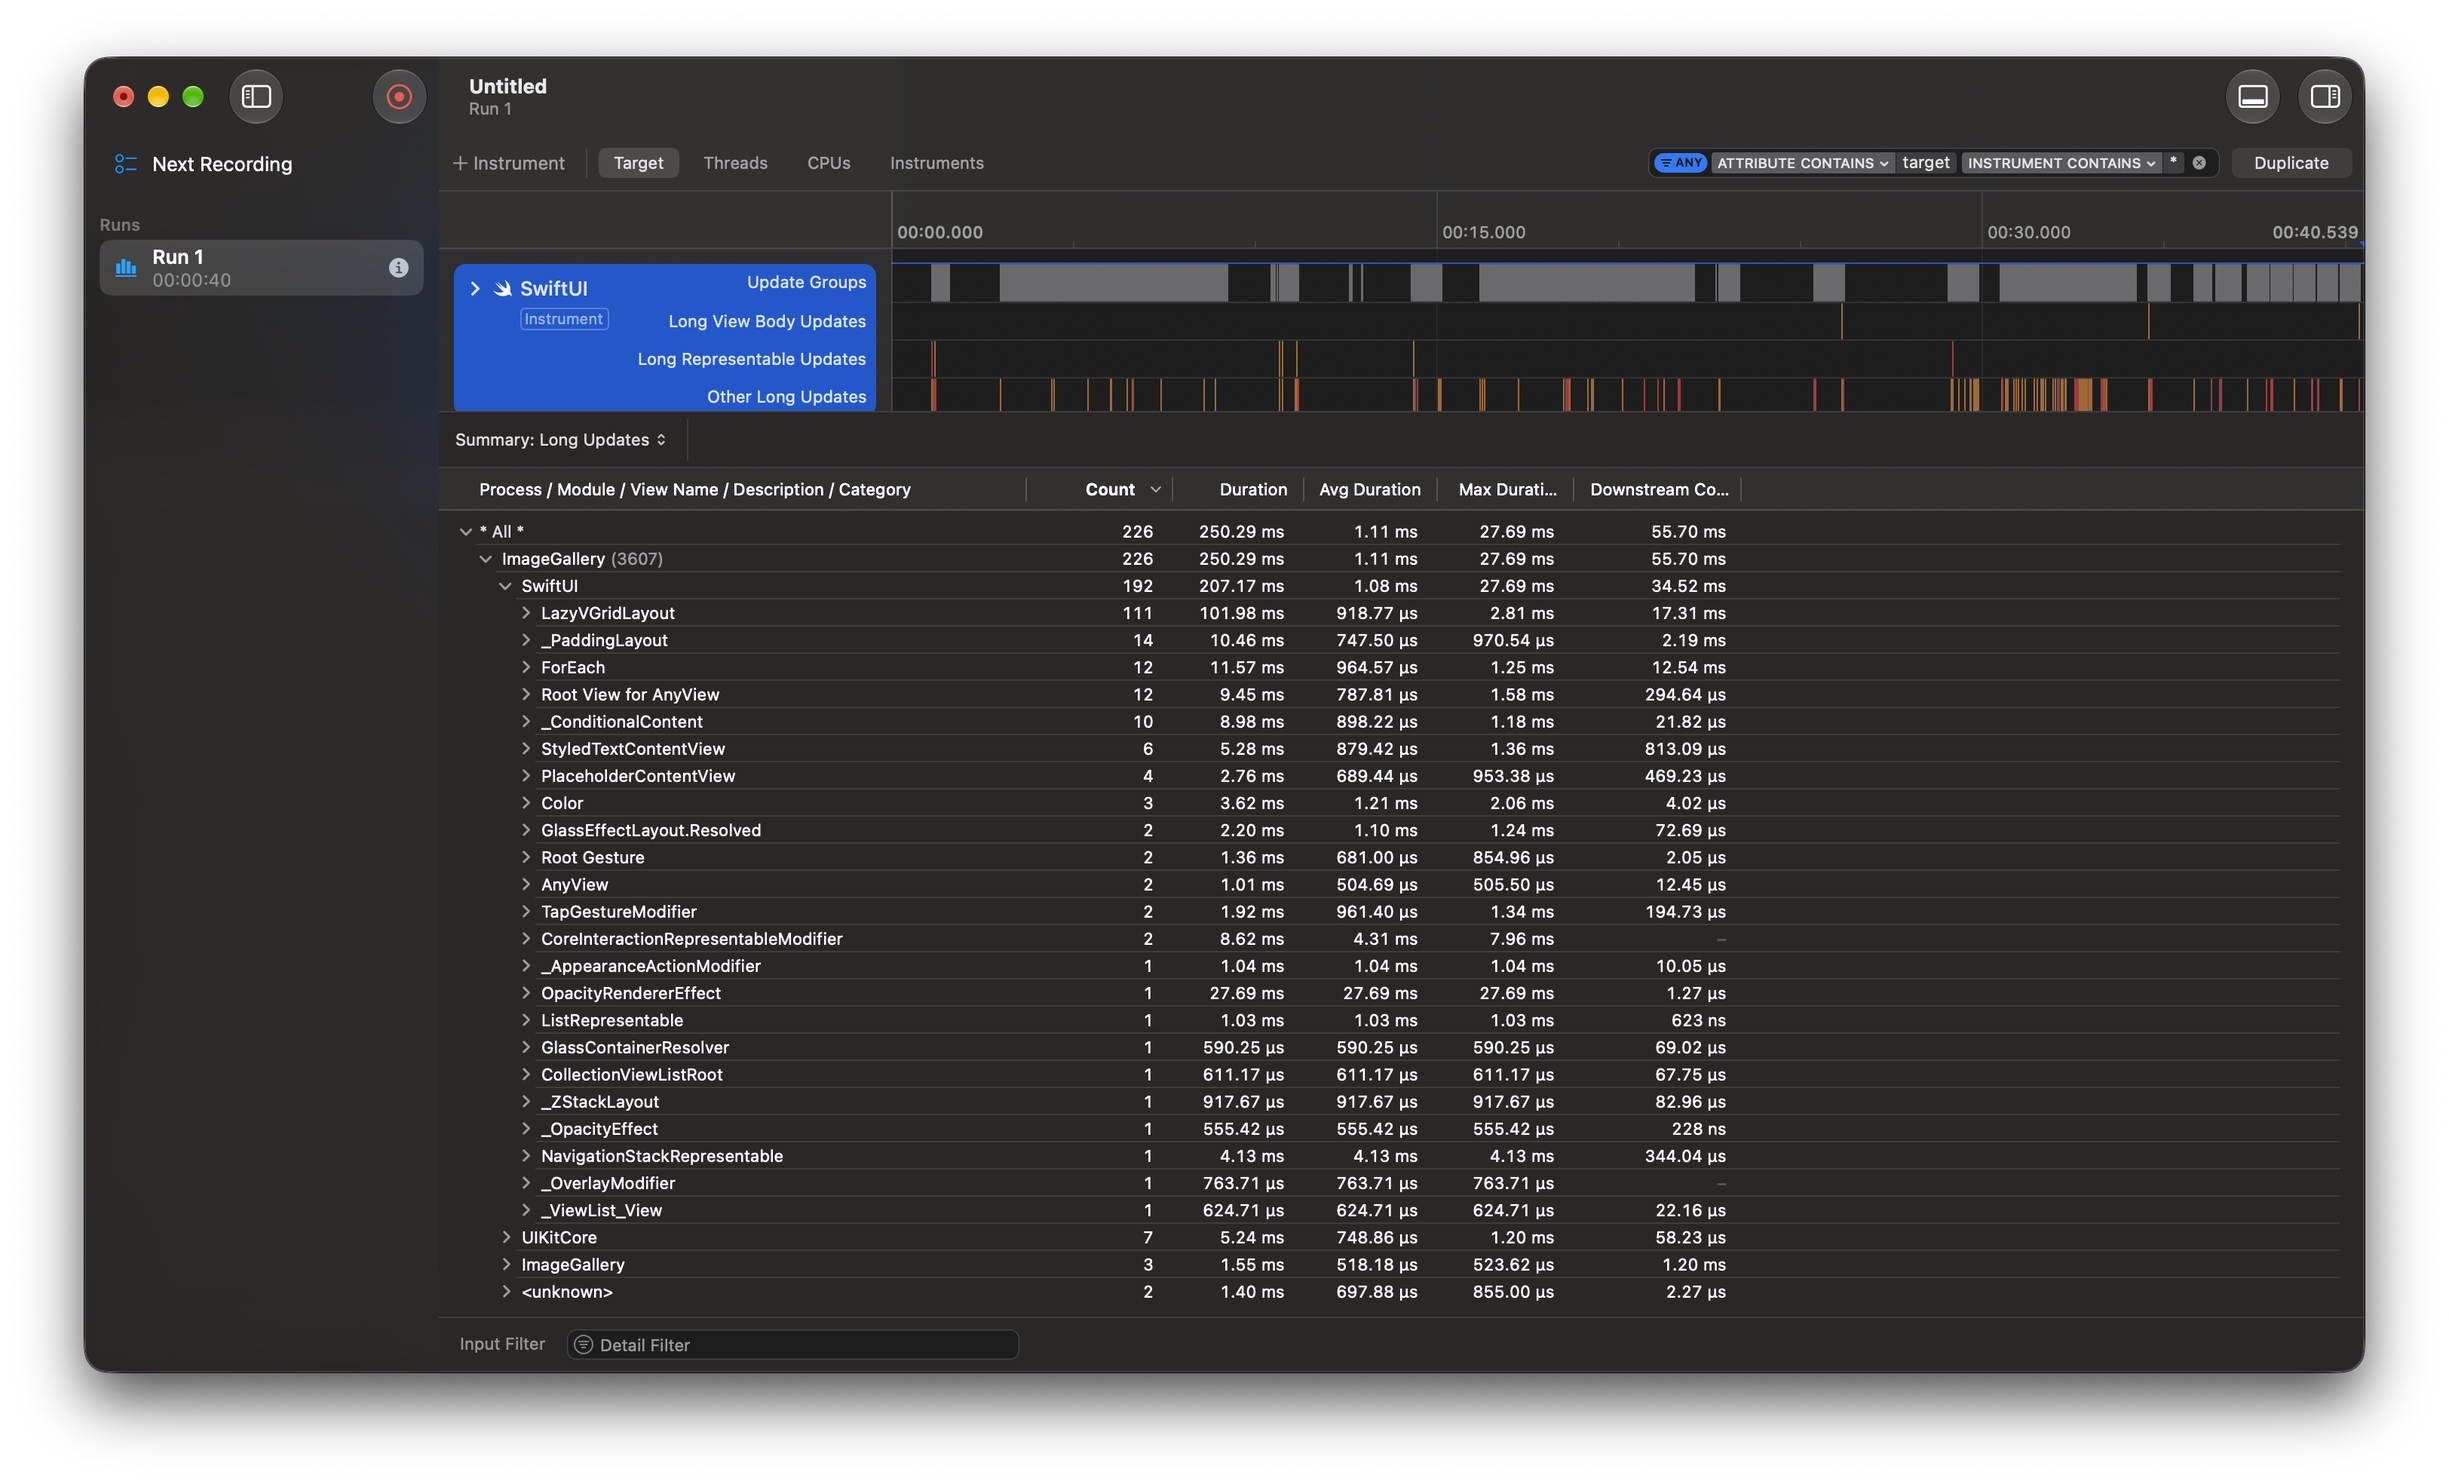
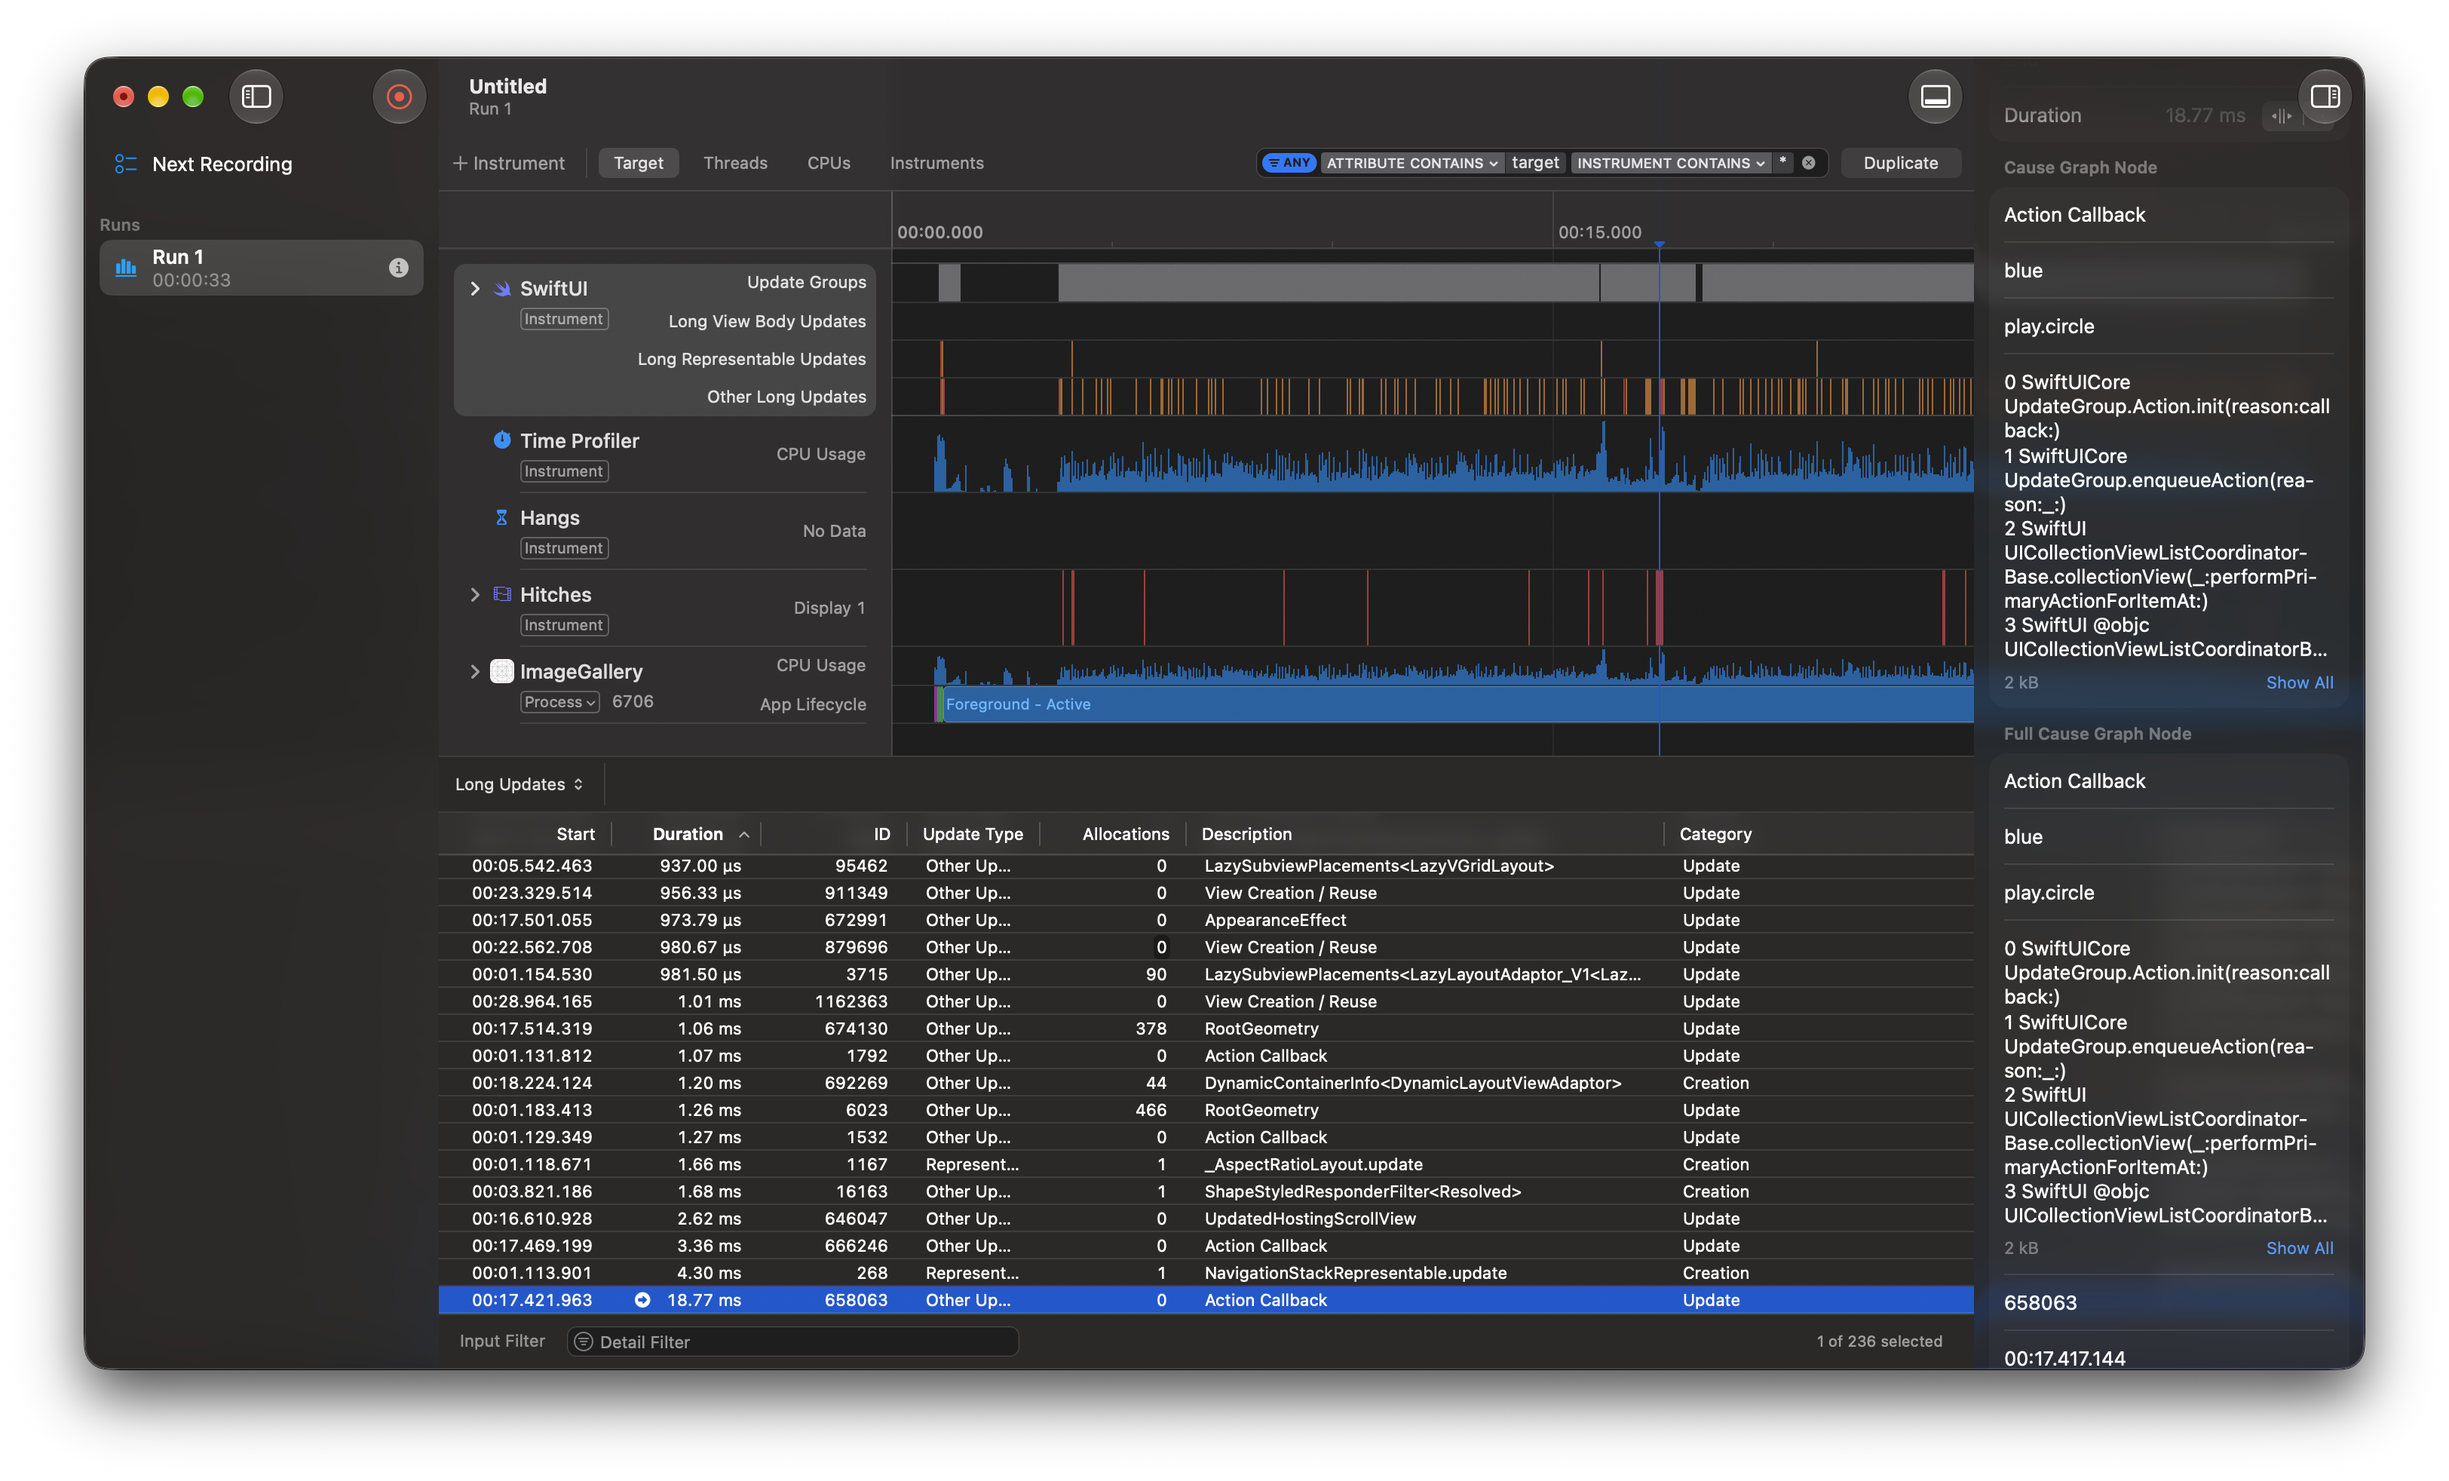
Update README.md

Changed region(s): [[0.1555, 0.0311, 0.964, 0.9318], [0.4975, 0.1553, 0.6219, 0.2174], [0.9018, 0.0311, 0.9329, 0.0932]]

diff --git a/README.md b/README.md
@@ -2,6 +2,8 @@
 
 A SwiftUI app that shows the [Unsplash](https://unsplash.com) feed in a grid, lets you search for photos, and opens each one full screen with a custom transition. My main goal was keeping it smooth while scrolling through hundreds of images.
 
+A video showing the app and code can be found here: [Loom Video](https://www.loom.com/share/957638cd1080476198a0de039b6585d5)
+
 ## Features
 
 - Infinite feed (`GET /photos`)
@@ -147,28 +149,28 @@ Measured on iPhone 15 Pro Max (iOS 27.0.1), Release build, scrolling the feed th
 #### Allocations
 
 **Results**
-Scrolling the feed for 45 seconds, memory rose while the first images loaded and then stayed flat at about 160 MiB. About 130 MiB of that is decoded images kept in the memory cache (200 images, around 0.6 MiB each), and the cache keeps releasing older images as you scroll.
+Scrolling the feed for 30 seconds, memory rose while the first pages loaded and then levelled off just under 200 MiB. About 163 MiB of that is decoded images, held by the 150 MiB memory cache plus the images on screen. The cache released 228 images during the run, so memory stays bounded as you scroll.
 
 <img src="https://raw.githubusercontent.com/ignacioparadisi/image-gallery/refs/heads/main/images/allocations.png" alt="Allocations Instrument Results" />
 
 #### Time Profiler
 
 **Results**
-Image decoding and JSON parsing run on background threads; the main thread is mostly SwiftUI layout and rendering. The thermal state stayed nominal while scrolling.
+Over 31 seconds of scrolling, opening photos and searching, the main thread was mostly UIKit layout and Core Animation; the app's SwiftUI view updates took about 220 ms in total. Image downloads, decoding and JSON parsing ran on background threads. The thermal state stayed nominal. The only hang was the first time the keyboard opened, which is iOS loading the keyboard rather than the app's own work
 
 <img src="https://raw.githubusercontent.com/ignacioparadisi/image-gallery/refs/heads/main/images/time-profiler.png" alt="Time Profile Instrument Results" />
 
 #### Animation Hitches
 
 **Results**
-In a 34-second run that included scrolling, opening photos and searching, there were 5 hitches. Four were one or two frames (8–12 ms on a 120 Hz display). The longest, 67 ms, happened when the keyboard appeared for the first time after tapping the search field, which is iOS loading the keyboard rather than the app's own work.
+In a 32-second run that included scrolling, opening photos and searching, there were 5 hitches, each a single frame (8.34 ms on a 120 Hz display). There was one hang the first time the keyboard opened after tapping the search field. That's iOS loading the keyboard rather than the app's own work, and it only happens once per launch.
 
 <img src="https://raw.githubusercontent.com/ignacioparadisi/image-gallery/refs/heads/main/images/animation-hitches.png" alt="Animation Hitches Instrument Results" />
 
 #### SwiftUI
 
 **Results**
-With the SwiftUI instrument, over 40 seconds of scrolling, opening photos and searching, only 3 updates from the app's own views took longer than usual, each about 0.5 ms. Most of the longer updates (111) were the lazy grid's layout while scrolling, under 3 ms each.
+Over 33 seconds of scrolling, opening photos and searching, the SwiftUI instrument flagged no long view body updates. The longer updates were layout: the lazy grid laying out cells while scrolling, and the Liquid Glass effect on the search bar and back button. The longest single update, 18.8 ms, was tapping a recent search, which saves it and pushes the results screen in one action. It happens once per tap, not while scrolling.
 
 <img src="https://raw.githubusercontent.com/ignacioparadisi/image-gallery/refs/heads/main/images/swiftui-instrument-1.png" alt="SwiftUI Instrument Results 1" />
 <img src="https://raw.githubusercontent.com/ignacioparadisi/image-gallery/refs/heads/main/images/swiftui-instrument-2.png" alt="SwiftUI Instrument Results 2" />
@@ -180,7 +182,6 @@ With the SwiftUI instrument, over 40 seconds of scrolling, opening photos and se
 - **`UserDefaults` for recent searches.** Simple and plenty for 10 entries. If I needed a long history, or to sync it, I'd use CoreData (SwiftData is simpler but it's not supported in iOS 16).
 - **Saving thumbnail URLs instead of images.** Keeps storage tiny and reuses the image cache, but if the cache is cleared, thumbnails have to download again.
 - **Searching on submit.** Saves requests with the hourly limit, but you don't see results as you type.
-- **The access key ships inside the app.** Like any client-side key, it can be extracted. A real app would send requests through its own backend.
 - **`nonisolated` on Networking.** The app target is main-actor isolated by default, so networking types opt out one by one. Moving networking into its own Swift package would avoid that.
 
 ## What I'd improve with more time
@@ -190,7 +191,7 @@ With the SwiftUI instrument, over 40 seconds of scrolling, opening photos and se
 - Show an alert when the hourly rate limit is reached, and use `X-Ratelimit-Remaining` to warn before it happens.
 - Use each photo's BlurHash or dominant color as a placeholder while it loads.
 - Interactive drag-to-dismiss, pinch to zoom, and handling rotation in the photo detail.
-- Move to `@Observable`, `scrollPosition` and animation completion handlers if the minimum version went up to iOS 17.
+- Move to `@Observable` and animation completion handlers if the minimum version went up to iOS 17.
 - Move networking into a local Swift package.
 - More tests: how `ImageLoader` shares downloads, DTO mapping, and UI tests for the main flows.
 - Pull to refresh on the feed.
